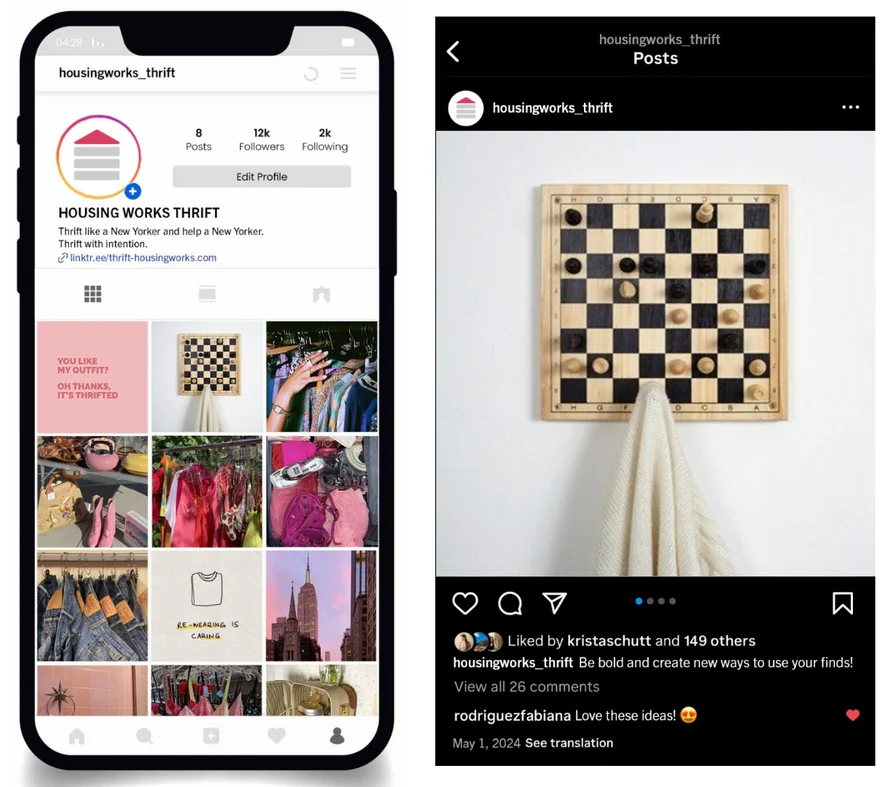
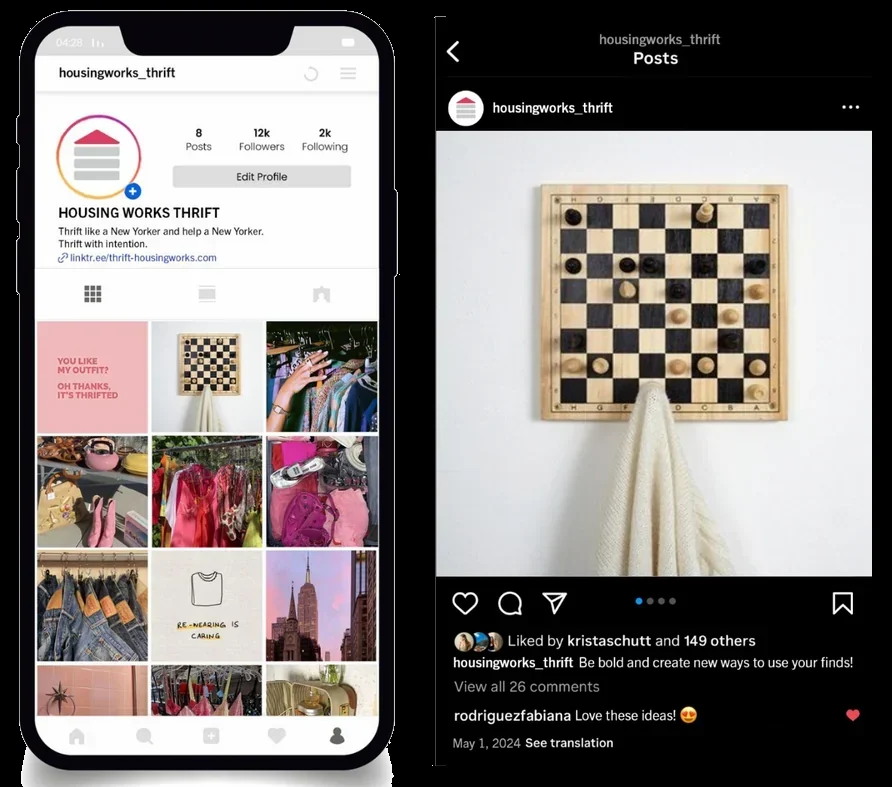
Rework the prototype copy, and pair the marks with the strategy statement
Primary research is renamed current strategy, which made the subheading
underneath say the same thing twice, so that goes. The three business
marks move from under the statement to beside it, each taking a third of
its height. They are fitted into the share of height they are given
rather than sized from their own width, so however long the statement
runs the three always come out inside it and can never push the row
taller.

The prototype section is rewritten on the supplied copy. The opening line
is set in the heading face, the three build points lose their headings and
become a numbered sentence each under a short rule, and the findings are
numbered so the strongest-first order is visible, with the one figure
worth reading pulled out in the brand pink.

Two things about that copy. The notes joined a label to its detail with a
long dash, which the site's rules do not allow, so the pairing is carried
by the layout instead. And the second build point was phrased as an
instruction while the other two described a thing; it now reads "Housing
Works' identity reinforced through", so the three match.

The social mockup also gets its ground filled in, so the post card no
longer sits half on white with square corners inside a rounded tile.

Changed region(s): [[0.0, 0.0, 1.0, 1.0]]

diff --git a/src/routes/housing-works.tsx b/src/routes/housing-works.tsx
@@ -354,6 +354,29 @@ const STORE_BANDS = [
   ],
 ]
 
+// What the mock room was built out of, each said in a single sentence.
+// No headings: naming each one twice added a label without adding a
+// meaning, so the sentence carries it on its own.
+const PROTOTYPE_BUILD = [
+  'Store layout echoing the West Village street grid.',
+  "Housing Works' identity reinforced through the colours, signage, ambient lighting and music.",
+  'Storytelling built in through a West Village history wall and a curated staff-pick corner.',
+]
+
+// What came back, strongest first.
+const FINDINGS = [
+  {
+    stat: '70%+',
+    text: "of visitors said they'd want to learn about the history of their own neighborhood.",
+  },
+  {
+    text: 'Visitors consciously noticed the atmosphere: the scent, the lighting, the curated playlist. Several said the space taught them something they did not expect.',
+  },
+  {
+    text: 'The neighborhood corner drew the most appreciation. People valued learning West Village history in a place they would never expect to find.',
+  },
+]
+
 // What the team said it would watch once the reimagining was live.
 const METRICS = [
   {
@@ -514,28 +537,27 @@ function HousingWorksPage() {
         {/* ============ PRIMARY RESEARCH ============ */}
         <section className={h.section}>
           <div className={h.sectionLabelWrap}>
-            <SectionLabel title="PRIMARY RESEARCH" number="02" />
+            <SectionLabel title="CURRENT STRATEGY" number="02" />
           </div>
-          <h3 className={h.subHeading}>Current Strategy</h3>
-
-          {/* The statement, and under it the three businesses it is
+          {/* The statement, and beside it the three businesses it is
               talking about, standing on the page without panels. */}
-          <p className={h.pinkStatement}>
-            Housing Works sustains its mission through entrepreneurial
-            businesses, which not only generate crucial funding for the
-            organization's advocacy and services but also create employment
-            opportunities within the community.
-          </p>
-          <div className={h.logoRow}>
-            {SUB_BRANDS.map((brand) => (
-              <img
-                key={brand.src}
-                className={h.logoMark}
-                src={brand.src}
-                alt={brand.alt}
-                loading="lazy"
-              />
-            ))}
+          <div className={h.strategyRow}>
+            <p className={h.pinkStatement}>
+              Housing Works sustains its mission through entrepreneurial
+              businesses, which not only generate crucial funding for the
+              organization's advocacy and services but also create employment
+              opportunities within the community.
+            </p>
+            <div className={h.logoColumn}>
+              {SUB_BRANDS.map((brand) => (
+                <img
+                  key={brand.src}
+                  src={brand.src}
+                  alt={brand.alt}
+                  loading="lazy"
+                />
+              ))}
+            </div>
           </div>
 
           {/* One row per business, the copy and the pictures swapping sides
@@ -858,37 +880,25 @@ function HousingWorksPage() {
           <div className={h.sectionLabelWrap}>
             <SectionLabel title="PROTOTYPE" number="08" />
           </div>
-          <h3 className={h.subHeading}>
-            Execution of the In-Store Experience
-          </h3>
-          <p className={`${h.bodyText} ${h.bodyLead}`}>
-            To test our reimagined in-store experience, we transformed a
-            classroom into a mock thrift shop by organizing a donation drive,
-            and replicated the reimagination of the West Village branch of
-            Housing Works Thrift shop.
+          <p className={h.prototypeLead}>
+            Translating the renders into a real room was to replicate and test
+            the overall experience and strategy we were proposing, and getting
+            real feedback on it.
           </p>
           <p className={h.bodyText}>
-            The layout incorporated modular aspects inspired by the West Village
-            thrift store, such as diagonal clothing racks reflecting the
-            neighborhood's street grid. Core brand assets, including pink
-            hangers, NYC-inspired signage, and ambient lighting, were
-            prominently featured to ensure consistency.
+            We turned a classroom into a working mock of the West Village
+            location of the Housing Works thrift store, stocked through a
+            donation drive we ran ourselves.
           </p>
-          <p className={h.bodyText}>
-            We displayed wall art that narrated the history of West Village,
-            creating an educational and engaging environment. A dedicated
-            storytelling corner featured curated staff picks and
-            neighborhood-inspired décor, enhancing the connection between
-            visitors and the store's local identity. Visitors experienced a
-            curated playlist, ambient lighting, and subtle scents designed to
-            create a memorable shopping atmosphere.
-          </p>
-          <p className={h.bodyText}>
-            Feedback was gathered through forms and conversations. Participants
-            responded positively, noting the immersive sensory experience and
-            expressing interest in learning about the neighborhood through
-            visual storytelling.
-          </p>
+
+          <div className={h.pointerGrid}>
+            {PROTOTYPE_BUILD.map((item, i) => (
+              <div key={item}>
+                <span className={h.pointerNumber}>{`0${i + 1}`}</span>
+                <p className={h.pointerText}>{item}</p>
+              </div>
+            ))}
+          </div>
 
           <div className={h.protoGrid}>
             <img
@@ -922,6 +932,21 @@ function HousingWorksPage() {
               loading="lazy"
             />
           </div>
+
+          <p className={`${h.bodyText} ${h.findingsIntro}`}>
+            Feedback was gathered through forms and in-person conversations
+            with visitors as they moved through the space.
+          </p>
+          <ol className={h.findingList}>
+            {FINDINGS.map((f) => (
+              <li key={f.text}>
+                {'stat' in f && (
+                  <span className={h.findingStat}>{f.stat}</span>
+                )}{' '}
+                {f.text}
+              </li>
+            ))}
+          </ol>
         </section>
 
         {/* ============ REFLECTIONS — the honest close, carried in a

diff --git a/src/components/case-study/HousingWorks.module.css b/src/components/case-study/HousingWorks.module.css
@@ -122,6 +122,14 @@
 /* Set large as well as pink. At body size this pink sits just under the
    readability bar against white; at this size and weight it clears it,
    and the statement earns the emphasis anyway. */
+.strategyRow {
+  display: grid;
+  grid-template-columns: 1.35fr 1fr;
+  gap: 56px;
+  /* Both halves take the row's height, which the statement sets. */
+  align-items: stretch;
+  margin-top: 32px;
+}
 .pinkStatement {
   font-family: var(--font-sans);
   font-weight: 600;
@@ -129,31 +137,39 @@
   line-height: 145%;
   letter-spacing: -0.01em;
   color: var(--housing-works-pink);
-  margin: 32px 0 0;
-  max-width: 75%;
+  margin: 0;
 }
-.logoRow {
-  display: grid;
-  grid-template-columns: repeat(3, 1fr);
-  gap: 48px;
-  align-items: center;
-  margin-top: 48px;
-  max-width: 75%;
+/* The three marks stacked beside the statement, sharing its height between
+   them. Each takes a third of the column and is fitted inside that share
+   rather than sized from its own width, so however long the statement runs
+   the three always come out inside it and never push the row taller. */
+.logoColumn {
+  display: flex;
+  flex-direction: column;
+  gap: 14px;
+  min-height: 0;
 }
-.logoMark {
+.logoColumn img {
+  flex: 1 1 0;
+  /* Without this a flex child refuses to go below its content height,
+     which is exactly what would let the marks stretch the row. */
+  min-height: 0;
   width: 100%;
-  max-width: 240px;
-  height: auto;
+  height: 100%;
+  object-fit: contain;
+  object-position: left center;
 }
-@media (max-width: 768px) {
-  .pinkStatement,
-  .logoRow {
-    max-width: 100%;
-  }
-  .logoRow {
+@media (max-width: 900px) {
+  /* Stacked, the marks have no statement beside them to take a height
+     from, so they go back to sizing from their own width. */
+  .strategyRow {
     grid-template-columns: 1fr;
-    gap: 28px;
-    justify-items: start;
+    gap: 36px;
+  }
+  .logoColumn img {
+    flex: 0 0 auto;
+    height: auto;
+    max-width: 260px;
   }
 }
 
@@ -799,6 +815,105 @@
 @media (max-width: 560px) {
   .metricsGroups {
     grid-template-columns: 1fr;
+  }
+}
+
+/* ============================================================
+   PROTOTYPE — the opening statement in the heading face, what the
+   room was built out of, then what came back from the people in it.
+   ============================================================ */
+/* The section opens on a statement rather than a small heading, so it is
+   set in the heading face at heading size. */
+.prototypeLead {
+  font-family: var(--font-sans);
+  font-weight: 600;
+  font-size: clamp(1.375rem, 2.2vw, 1.75rem);
+  line-height: 140%;
+  letter-spacing: -0.01em;
+  color: var(--text-primary);
+  margin: 0 0 24px;
+  max-width: 75%;
+}
+
+/* What the room was made of: a label and the thing itself. The original
+   notes joined these with a long dash, which the site's rules do not
+   allow in copy, so the pairing is carried by the layout instead. */
+.pointerGrid {
+  display: grid;
+  grid-template-columns: repeat(3, 1fr);
+  gap: 16px;
+  margin-top: 40px;
+}
+/* One sentence each, numbered, under a short rule. The number and the rule
+   do the work a heading would have done, marking where one point ends and
+   the next begins, without putting a label on something the sentence
+   already names. */
+.pointerNumber {
+  display: block;
+  font-family: var(--font-mono);
+  font-size: 0.75rem;
+  color: var(--housing-works-pink);
+  margin-bottom: 10px;
+}
+.pointerText {
+  font-family: var(--font-body);
+  font-size: 0.9375rem;
+  line-height: 165%;
+  color: var(--text-secondary);
+  margin: 0;
+  padding-top: 20px;
+  border-top: 2px solid var(--housing-works-pink);
+}
+
+/* What came back. Numbered, because the order is the point: these are
+   set down strongest first. */
+.findingsIntro {
+  margin-top: 56px;
+}
+.findingList {
+  list-style: none;
+  counter-reset: finding;
+  margin: 28px 0 0;
+  padding: 0;
+  display: flex;
+  flex-direction: column;
+  gap: 22px;
+  max-width: 75%;
+}
+.findingList li {
+  counter-increment: finding;
+  position: relative;
+  padding-left: 40px;
+  font-family: var(--font-body);
+  font-size: 1rem;
+  line-height: 175%;
+  color: var(--text-secondary);
+}
+.findingList li::before {
+  content: counter(finding, decimal-leading-zero);
+  position: absolute;
+  left: 0;
+  top: 0.28em;
+  font-family: var(--font-mono);
+  font-size: 0.75rem;
+  color: var(--housing-works-pink);
+}
+/* The one number worth reading on its own. */
+.findingStat {
+  font-family: var(--font-sans);
+  font-weight: 700;
+  font-size: 1.25rem;
+  color: var(--housing-works-pink);
+}
+
+@media (max-width: 768px) {
+  .prototypeLead,
+  .findingList {
+    max-width: 100%;
+  }
+  .pointerGrid {
+    grid-template-columns: 1fr;
+    gap: 28px;
   }
 }
 
